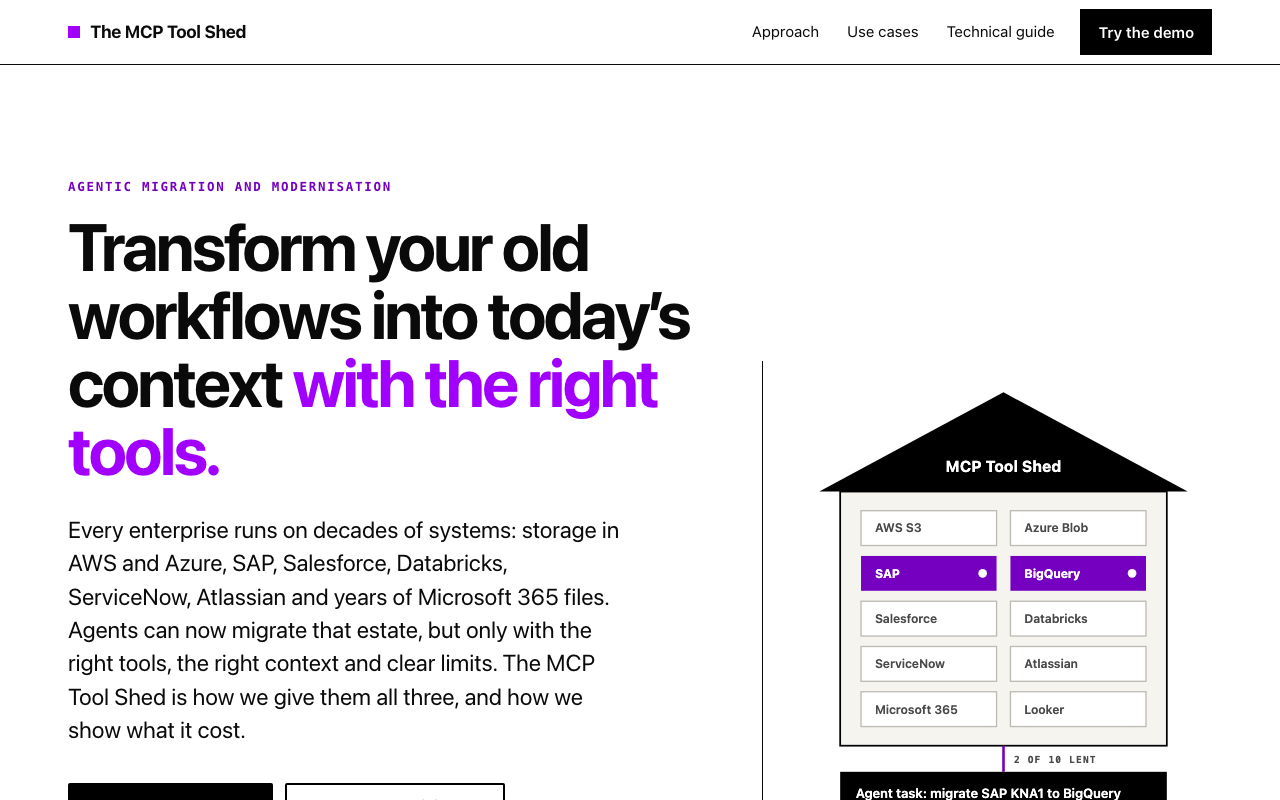
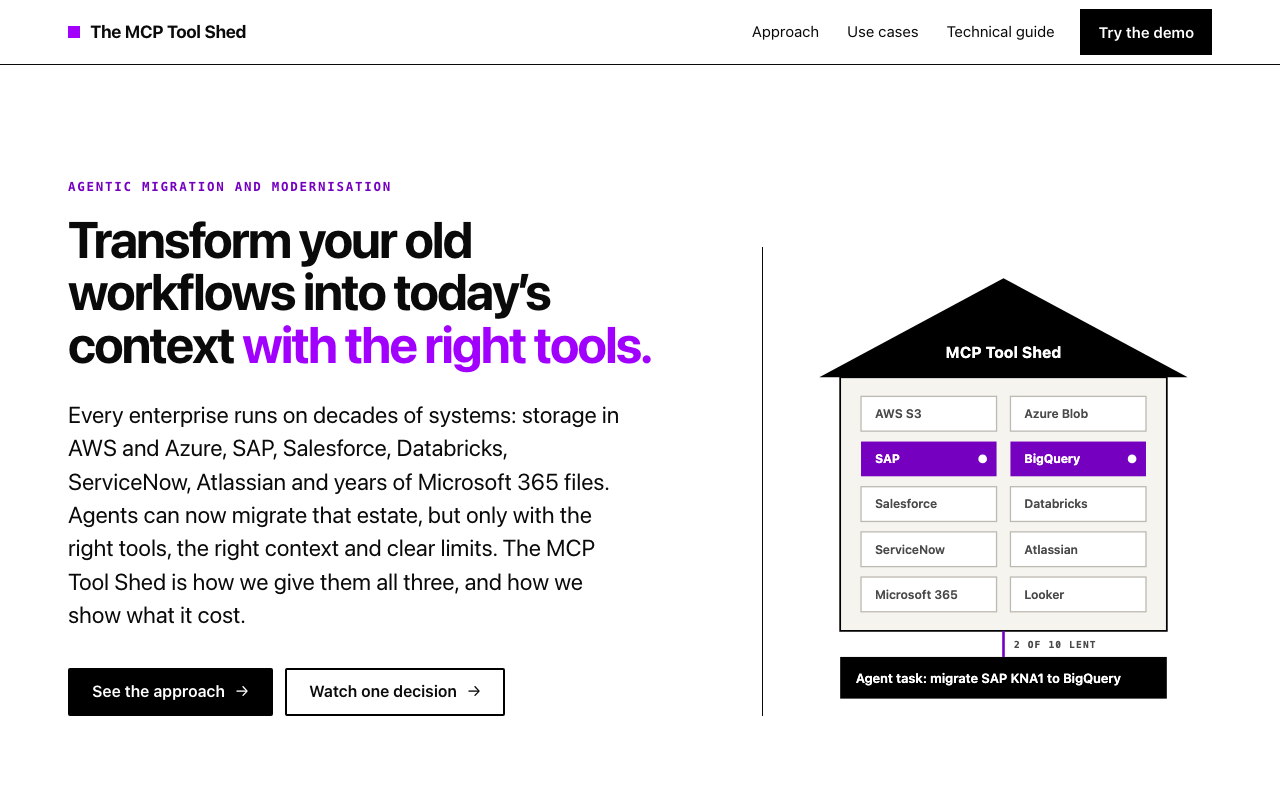
style: fit the landing headline on three lines at desktop width

Changed region(s): [[0.0312, 0.2812, 0.5625, 0.9375], [0.625, 0.3438, 0.9375, 1.0], [0.0312, 0.9688, 0.2188, 1.0]]

diff --git a/static/styles/landing.css b/static/styles/landing.css
@@ -41,7 +41,7 @@
 .closing p{margin:0;font-size:1.15rem}
 
 /* Hero headline: the longer line needs a smaller size so the lede stays above the fold */
-.hero h1{font-size:clamp(2.5rem,5.2vw,4.6rem);max-width:16ch}
+.hero h1{font-size:clamp(2.25rem,4vw,3.25rem);max-width:none}
 
 /* Existing Stack: the base layer is the estate itself, drawn in neutral grey */
 .stack>[data-pillar="estate"]{--c:var(--muted)}
